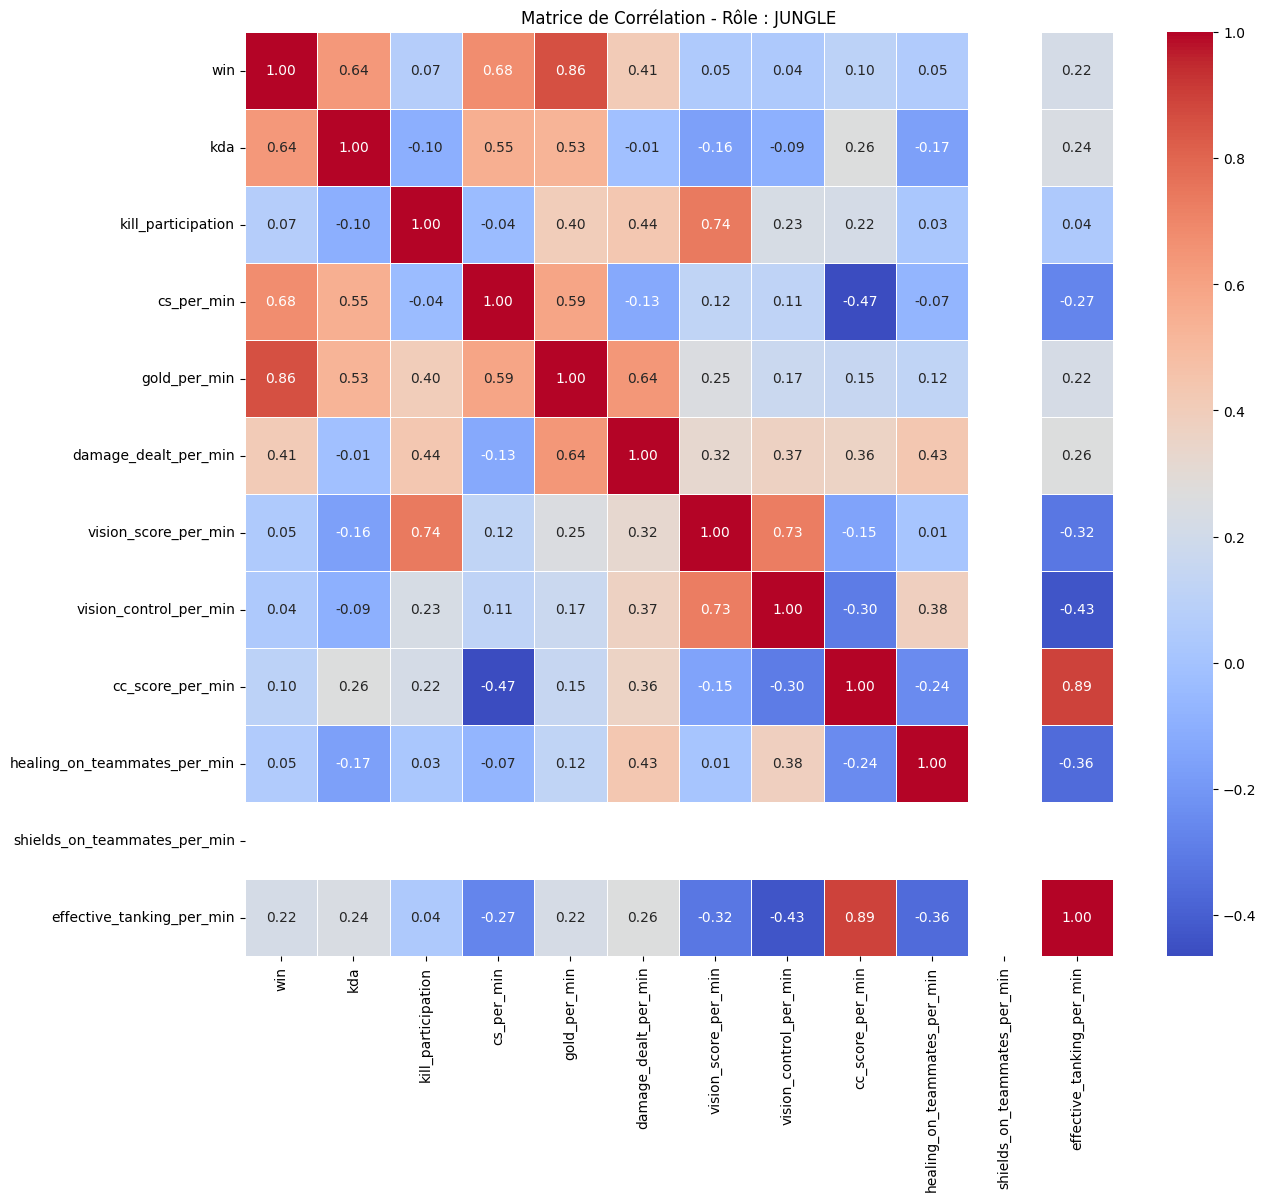
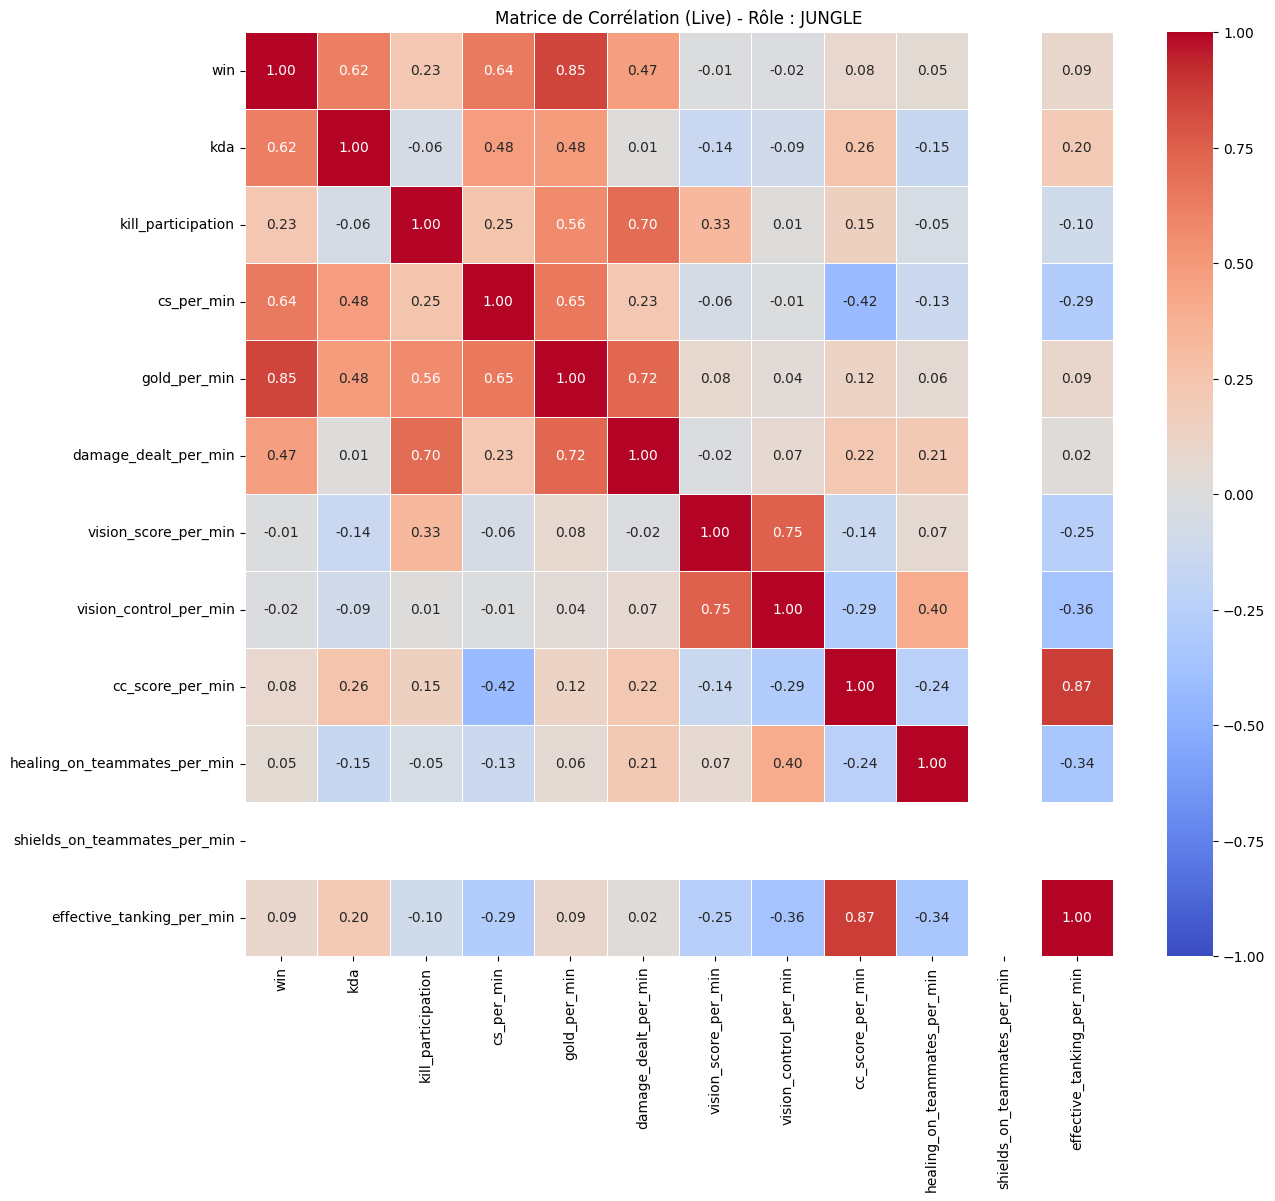
feat(correlation_matrix): Add correlation matrix generation and endpoint for role-based data

diff --git a/backend/routes/get_correlation_matrix.py b/backend/routes/get_correlation_matrix.py
@@ -1,0 +1,120 @@
+import os
+import sqlite3
+
+import matplotlib.pyplot as plt
+import pandas as pd
+import seaborn as sns
+from flask import Request, jsonify, send_file
+
+# Import de la fonction clé pour récupérer les données
+from models.database import get_all_historical_data
+
+# Désactiver l'avertissement de Matplotlib pour l'utilisation dans un thread
+plt.switch_backend('Agg')
+
+# Les rôles valides (pour la sécurité et la validation)
+VALID_ROLES = ["TOP", "JUNGLE", "MIDDLE", "BOTTOM", "UTILITY"]
+
+
+def generate_matrix_image(role: str, db_path: str) -> tuple[str, str | None]:
+    """
+    Génère l'image de la matrice de corrélation pour un rôle.
+    Utilise les données de la base de données.
+    Retourne (chemin_du_fichier, message_erreur | None).
+    """
+
+    # 1. Définir le chemin de sortie (à la racine du projet)
+    file_name = f"correlation_matrix_{role}.png"
+    # Le chemin est construit depuis ce fichier (backend/routes/)
+    # en remontant de deux niveaux (..) pour atteindre la racine du projet.
+    file_path = os.path.abspath(os.path.join(
+        os.path.dirname(__file__), '..', '..', file_name))
+
+    conn = None
+    try:
+        # 2. Obtenir les données historiques depuis la BDD
+        conn = sqlite3.connect(db_path)
+        # get_all_historical_data calcule déjà les métriques _per_min, kda, etc.
+        all_data_df = get_all_historical_data(conn)
+    except Exception as e:
+        print(
+            f"Erreur lors de la connexion BDD ou get_all_historical_data: {e}")
+        return None, f"Database error: {e}"
+    finally:
+        if conn:
+            conn.close()
+
+    if all_data_df.empty:
+        print("Pas de données historiques trouvées pour générer la matrice.")
+        return None, "No historical data to generate matrix."
+
+    # 3. Filtrer les données pour le rôle
+    role_df = all_data_df[all_data_df['role'] == role]
+    if len(role_df) < 2:
+        print(
+            f"Pas assez de données pour le rôle {role} (besoin d'au moins 2).")
+        return None, f"Not enough data for role: {role} (need at least 2 entries)."
+
+    # 4. Préparer le DataFrame pour la corrélation
+    numeric_role_df = role_df.select_dtypes(include=['number'])
+
+    # Exclure les colonnes non pertinentes pour la corrélation
+    cols_to_drop = [col for col in [
+        'match_id', 'team_damage_percentage'] if col in numeric_role_df.columns]
+    if cols_to_drop:
+        numeric_role_df = numeric_role_df.drop(columns=cols_to_drop)
+
+    # Calculer la matrice
+    correlation_matrix = numeric_role_df.corr()
+
+    # 5. Générer le graphique
+    try:
+        plt.figure(figsize=(14, 12))
+        sns.heatmap(correlation_matrix, annot=True,
+                    cmap='coolwarm', fmt=".2f", linewidths=.5, vmin=-1, vmax=1)
+        plt.title(f'Matrice de Corrélation (Live) - Rôle : {role}')
+
+        # 6. Sauvegarder l'image
+        plt.savefig(file_path, bbox_inches='tight')
+        plt.close()  # Important pour libérer la mémoire dans un serveur
+
+        print(f"Matrice régénérée : {file_path}")
+        return file_path, None
+
+    except Exception as e:
+        print(f"Erreur lors de la génération du PNG: {e}")
+        # S'assurer de fermer la figure en cas d'erreur
+        if plt.gcf().get_axes():
+            plt.close()
+        return None, f"Plotting error: {e}"
+
+
+def get_correlation_matrix(request: Request, role: str, config: dict):
+    """
+    Régénère et envoie l'image de la matrice de corrélation.
+    """
+    role_upper = role.upper()
+
+    # 1. Valider le rôle
+    if role_upper not in VALID_ROLES:
+        return jsonify({"error": "Invalid role specified"}), 400
+
+    # 2. Récupérer le db_path depuis la config
+    db_path = config.get("db_path")
+    if not db_path:
+        return jsonify({"error": "db_path not configured in .env"}), 500
+
+    # 3. Appeler la fonction de génération
+    file_path, error = generate_matrix_image(role_upper, db_path)
+
+    if error:
+        # Une erreur est survenue pendant la génération
+        return jsonify({"error": error}), 500
+
+    # 4. Envoyer le fichier nouvellement créé
+    try:
+        # Mettre max_age=0 force le navigateur à ne pas utiliser de cache
+        return send_file(file_path, mimetype='image/png', max_age=0)
+    except Exception as e:
+        print(f"Erreur lors de l'envoi du fichier {file_path}: {e}")
+        return jsonify({"error": f"Could not send file: {e}"}), 500

diff --git a/backend/main.py b/backend/main.py
@@ -4,6 +4,7 @@ from dotenv import dotenv_values
 from flask import Flask, jsonify, request
 from models.database import initialize_db
 from routes.add_match import add_match
+from routes.get_correlation_matrix import get_correlation_matrix
 from routes.get_weights import get_weights
 from routes.top_players import top_players
 
@@ -34,6 +35,12 @@ def wrapper_top_players():
 @app.route("/get_weights", methods=["GET"])
 def wrapper_get_weights():
     return get_weights(request)
+
+
+@app.route("/correlation_matrix/<role>", methods=["GET"])
+def wrapper_get_correlation_matrix(role: str):
+    # Passe la requête, le 'role', et le dict de config global
+    return get_correlation_matrix(request, role, config)
 
 
 app.run(host="0.0.0.0", port=config["backend_port"], debug=True)
